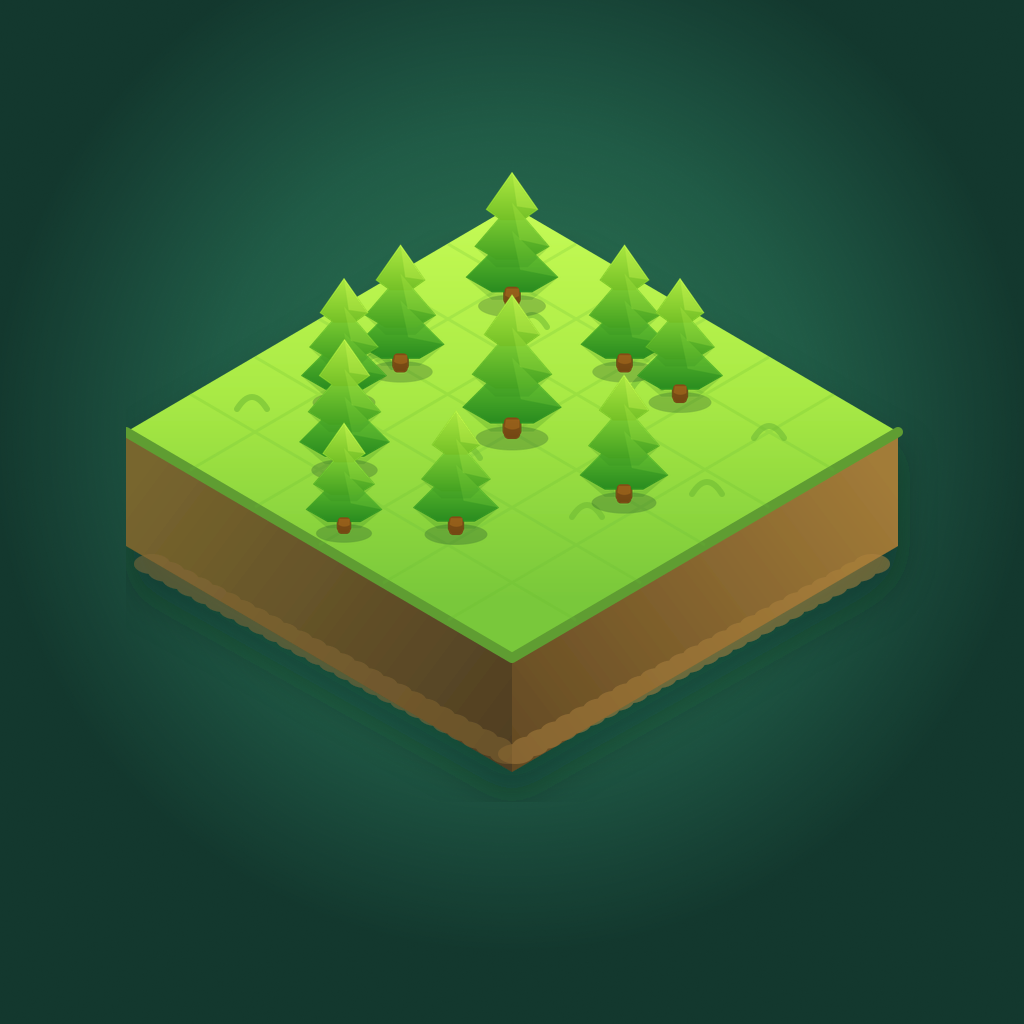
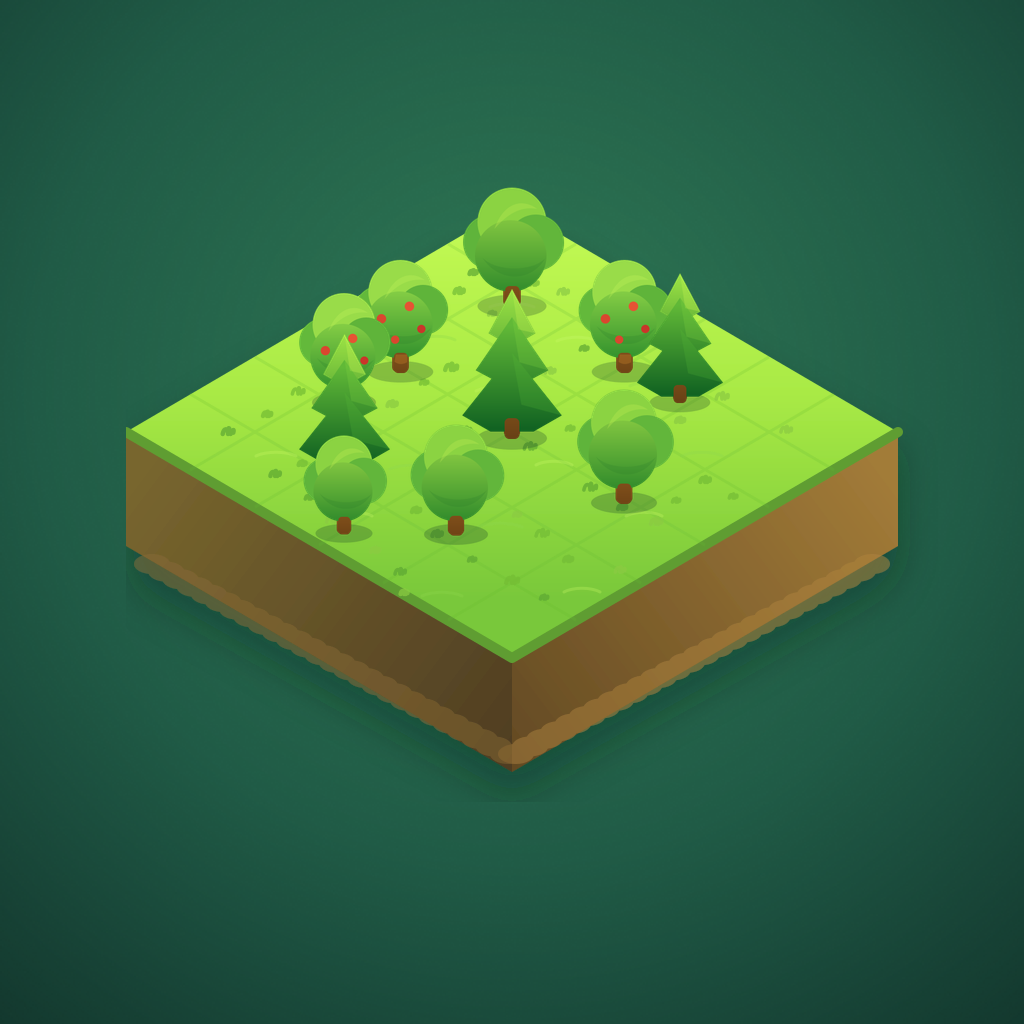
fix: update example forest visualization to reflect correct page count and image

Changed region(s): [[0.0, 0.0, 1.0, 0.9688], [0.2188, 0.1562, 0.7188, 0.5312]]

diff --git a/README.md b/README.md
@@ -4,11 +4,13 @@ TokoBot é um bot para Discord que transforma páginas lidas em uma floresta vis
 
 ## Exemplo
 
-Esta é uma simulação de uma floresta com **525 páginas lidas no período**:
+Esta é uma simulação de uma floresta com **500 páginas lidas no período**:
 
-![Floresta com 525 páginas lidas](assets/readme/forest-525.png)
+<p align="center">
+  <img src="assets/readme/forest-500.png" alt="Floresta com 500 páginas lidas" width="520">
+</p>
 
-Com 525 páginas no período, o usuário tem **10 árvores completas** e mais **25 páginas de progresso** para a próxima árvore.
+Com 500 páginas no período, o usuário tem **10 árvores completas**, sem árvore parcial.
 
 ## Funcionalidades
 